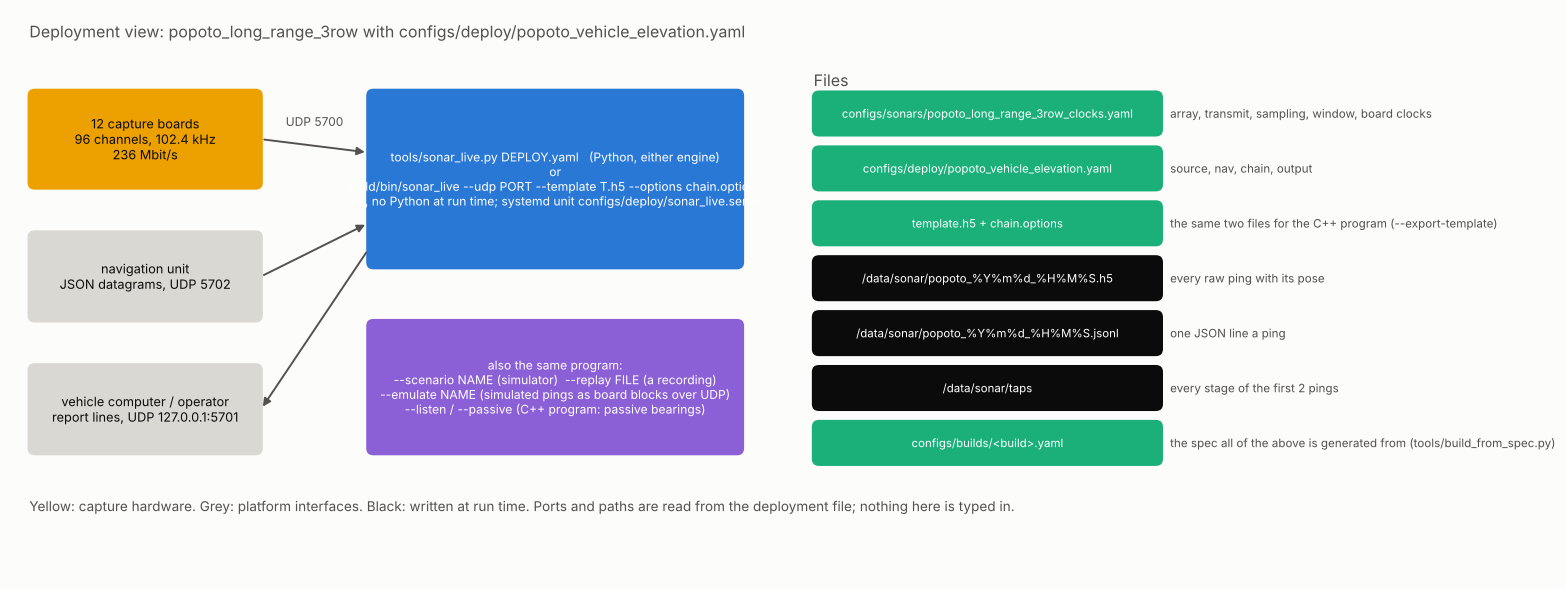
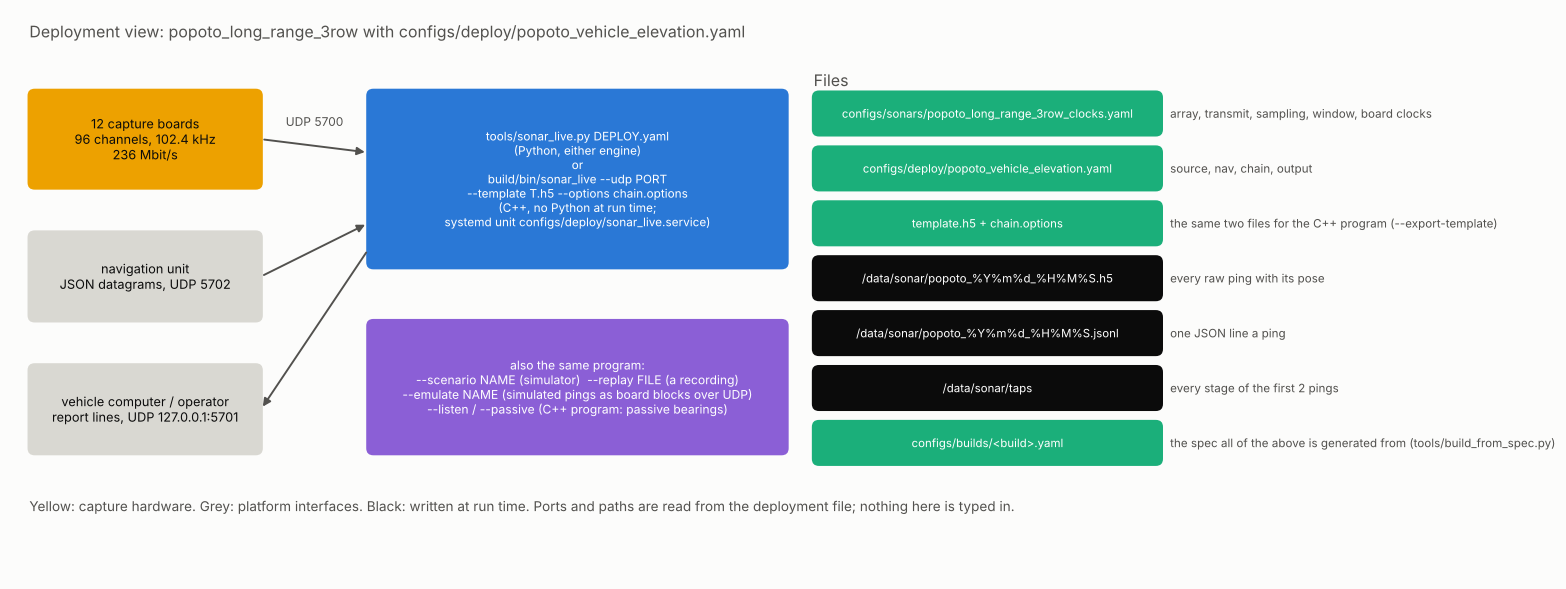
Architecture diagrams: three redrawn
- live_chain.png was drawn before the decimate-first stage existed and said it
  was not in the tree; redrawn, and the line now says what the optional stage
  does.
- backends.png: the stacked-rows row's CPU label overflowed its box onto the
  GPU column; the backprojection-kernel remark moved to the note.
- deployment_build.png: the program box's command lines ran past its edges;
  the box is wider and the commands are split over lines.

Only these three were redrawn. test_architecture.py passes.

Claude-Session: https://claude.ai/code/session_01QhYtHta4HR3WascrfVLbGv

Changed region(s): [[0.2146, 0.1528, 0.5211, 0.4584], [0.2452, 0.5195, 0.5211, 0.7946]]

diff --git a/tools/architecture_diagrams.py b/tools/architecture_diagrams.py
@@ -44,8 +44,8 @@ STAGES = [
     ("Detection", "CFAR", "C++ kernel", "same kernel, CUDA", "detect.cfar(backend=)", ""),
     ("Detection", "Sparse Bayesian bearings (active gates, passive)", "C++ kernels, OpenMP", "same kernels, CUDA",
      "core.doa_gate(backend=), core.doa_passive, doa: sbl", "2.5x on an L4"),
-    ("Detection", "Stacked rows: per-row maps, elevation at each detection", "C++ (libs/live) and NumPy on the backprojection kernel", "same kernel, CUDA",
-     "chain: {elevation: {...}}", "no kernel of its own; depth, fold and ray trace are CPU"),
+    ("Detection", "Stacked rows: per-row maps, elevation at each detection", "C++ (libs/live) and NumPy", "same kernel, CUDA",
+     "chain: {elevation: {...}}", "on the backprojection kernel, none of its own; depth, fold and ray trace are CPU"),
     ("Detection", "Clustering, tracking, classification", "C++ (libs/live) and NumPy", None, "live chain; detect, classify",
      "tens of objects per ping: nothing to accelerate"),
     ("Live chain", "Board stream to pings, navigation, report", "C++", None, "build/bin/sonar_live",
@@ -222,8 +222,9 @@ def draw_live_chain(path):
     ax.text(pos["cluster"][0] + w / 2, 6.45, "continues below", ha="center", fontsize=7, color=MUTED)
     ax.text(pos["sbl"][0] - 0.12, pos["sbl"][1] + h / 2, ">", ha="center", va="center", fontsize=9, color=MUTED)
     ax.text(0.2, 5.6, "navigation is written into each\nrecord (pose, attitude samples,\nenvironment); the depth stage\nreads it from the record", fontsize=6.8, color=MUTED, va="top")
-    state = "in this tree (chain key present)" if decimate else "not in this tree: being added separately (stage 2)"
-    ax.text(pos["prepare"][0], 8.02, f"decimate first (to twice the band before the chain): {state}", fontsize=7, color=VIOLET)
+    state = ("optional, chain key `decimate`: band-select a raw ping to complex baseband and synchronise the boards in one stage, before the rest"
+             if decimate else "not in this tree")
+    ax.text(pos["sync"][0], 8.02, f"decimate first: {state}", fontsize=7, color=VIOLET)
     # legend and engines
     box(ax, (0.2, 3.45), 1.2, 0.4, "CPU stage", color=BLUE, fs=7.5)
     box(ax, (1.5, 3.45), 1.7, 0.4, "host or CUDA kernel", color=AQUA, fs=7.5)
@@ -256,12 +257,12 @@ def draw_build_deployment(path, sonar="popoto_long_range_3row", deploy="popoto_v
     box(ax, (0.2, 4.4), 2.6, 1.1, f"{d['n_boards']} capture boards\n{d['channels']} channels, {d['sample_rate_hz'] / 1e3:g} kHz\n{d['rate_total_bit_s'] / 1e6:.0f} Mbit/s", color=YELLOW, text_color=INK, fs=8)
     box(ax, (0.2, 2.9), 2.6, 1.0, "navigation unit\n" + ("typed-in pose (nav.static)" if "static" in nav else f"JSON datagrams, UDP {nav.get('port')}"), color=GRID, text_color=INK, fs=8)
     box(ax, (0.2, 1.4), 2.6, 1.0, "vehicle computer / operator\n" + (f"report lines, UDP {out['report_udp'][0]}:{out['report_udp'][1]}" if out.get("report_udp") else "report file"), color=GRID, text_color=INK, fs=8)
-    box(ax, (4.0, 3.5), 4.2, 2.0, "tools/sonar_live.py DEPLOY.yaml   (Python, either engine)\nor\nbuild/bin/sonar_live --udp PORT --template T.h5 --options chain.options\n(C++, no Python at run time; systemd unit configs/deploy/sonar_live.service)", color=BLUE, fs=7.6)
+    box(ax, (4.0, 3.5), 4.7, 2.0, "tools/sonar_live.py DEPLOY.yaml\n(Python, either engine)\nor\nbuild/bin/sonar_live --udp PORT\n--template T.h5 --options chain.options\n(C++, no Python at run time;\nsystemd unit configs/deploy/sonar_live.service)", color=BLUE, fs=7.4)
     arrow(ax, (2.8, 4.95), (4.0, 4.8))
     ax.text(3.4, 5.1, f"UDP {src['port']}", fontsize=7.5, color=MUTED, ha="center")
     arrow(ax, (2.8, 3.4), (4.0, 4.0))
     arrow(ax, (4.0, 3.7), (2.8, 1.9))
-    box(ax, (4.0, 1.4), 4.2, 1.5, "also the same program:\n--scenario NAME (simulator)  --replay FILE (a recording)\n--emulate NAME (simulated pings as board blocks over UDP)\n--listen / --passive (C++ program: passive bearings)", color=VIOLET, fs=7.6)
+    box(ax, (4.0, 1.4), 4.7, 1.5, "also the same program:\n--scenario NAME (simulator)  --replay FILE (a recording)\n--emulate NAME (simulated pings as board blocks over UDP)\n--listen / --passive (C++ program: passive bearings)", color=VIOLET, fs=7.6)
     files = [("configs/sonars/" + src["sonar"] + ".yaml", "array, transmit, sampling, window, board clocks"), ("configs/deploy/" + deploy + ".yaml", "source, nav, chain, output"),
              ("template.h5 + chain.options", "the same two files for the C++ program (--export-template)"), (out.get("recording", "-"), "every raw ping with its pose"),
              (out.get("report", "-"), "one JSON line a ping"), ((out.get("taps") or {}).get("dir", "-"), f"every stage of the first {(out.get('taps') or {}).get('pings', 0)} pings"),
